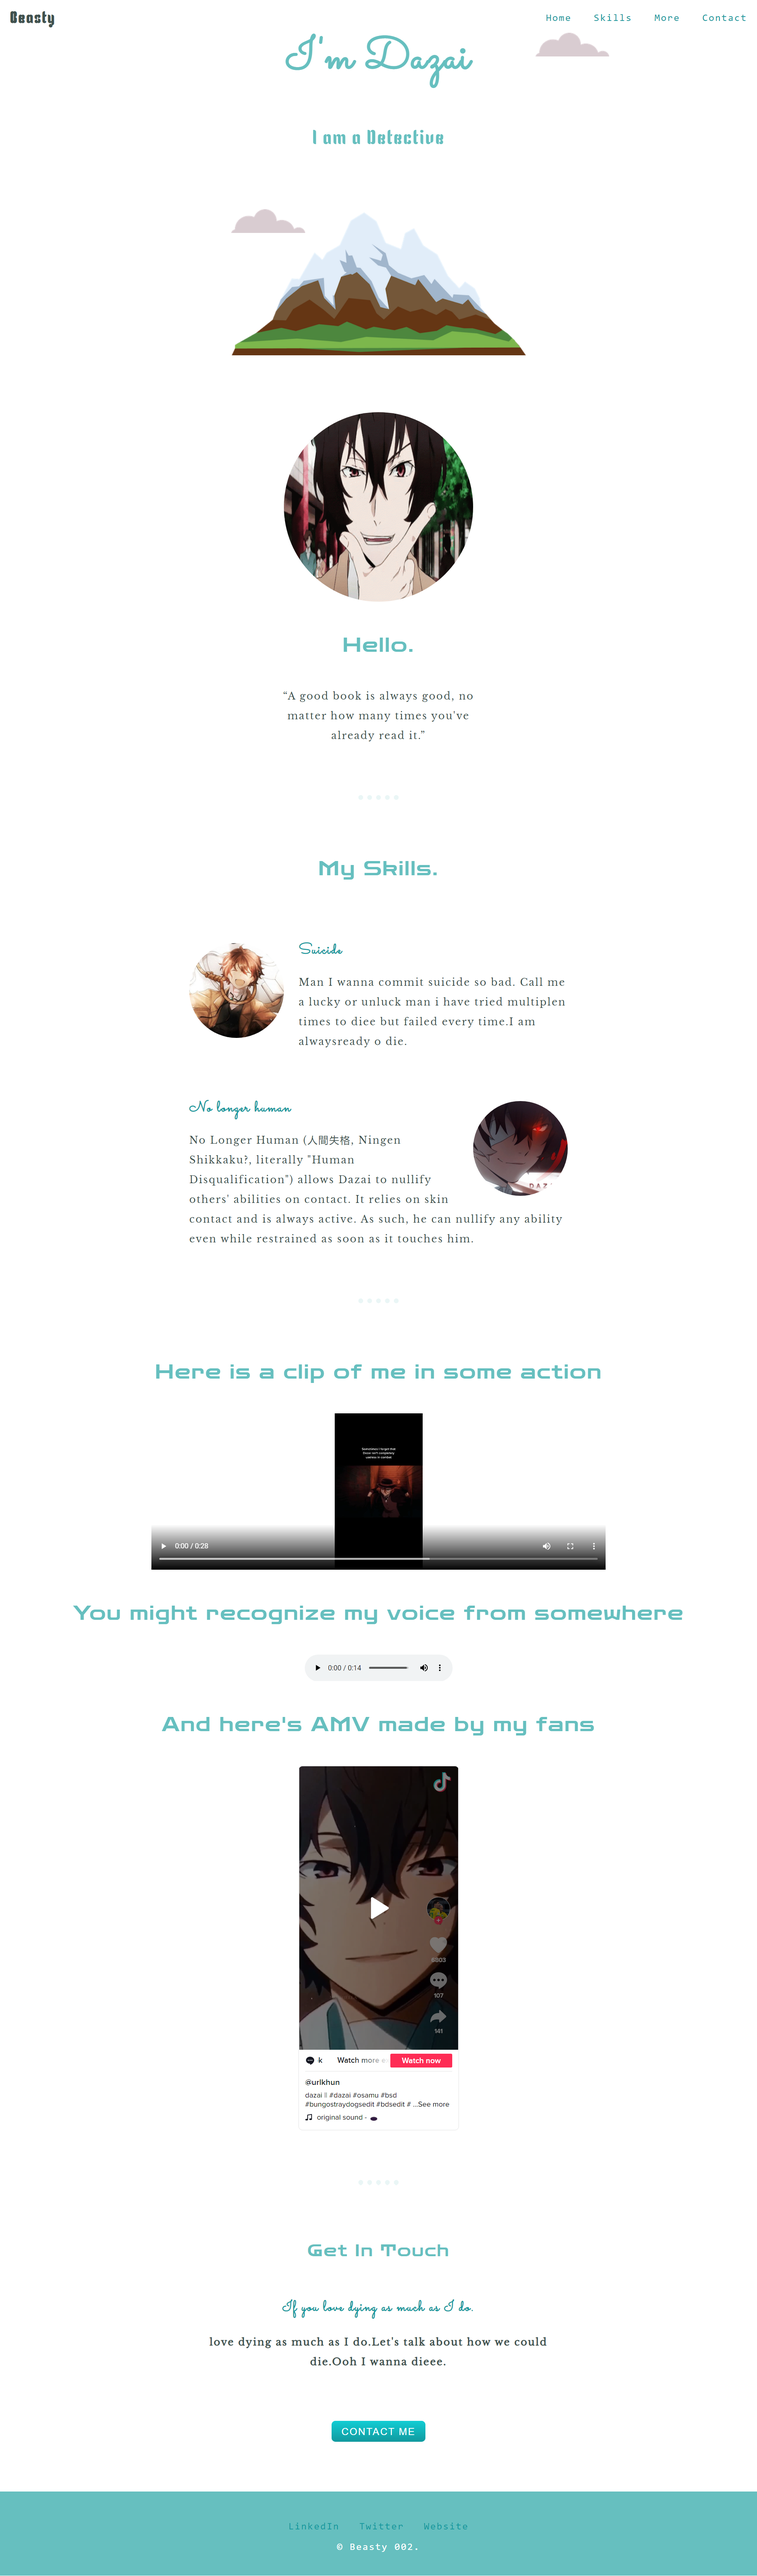
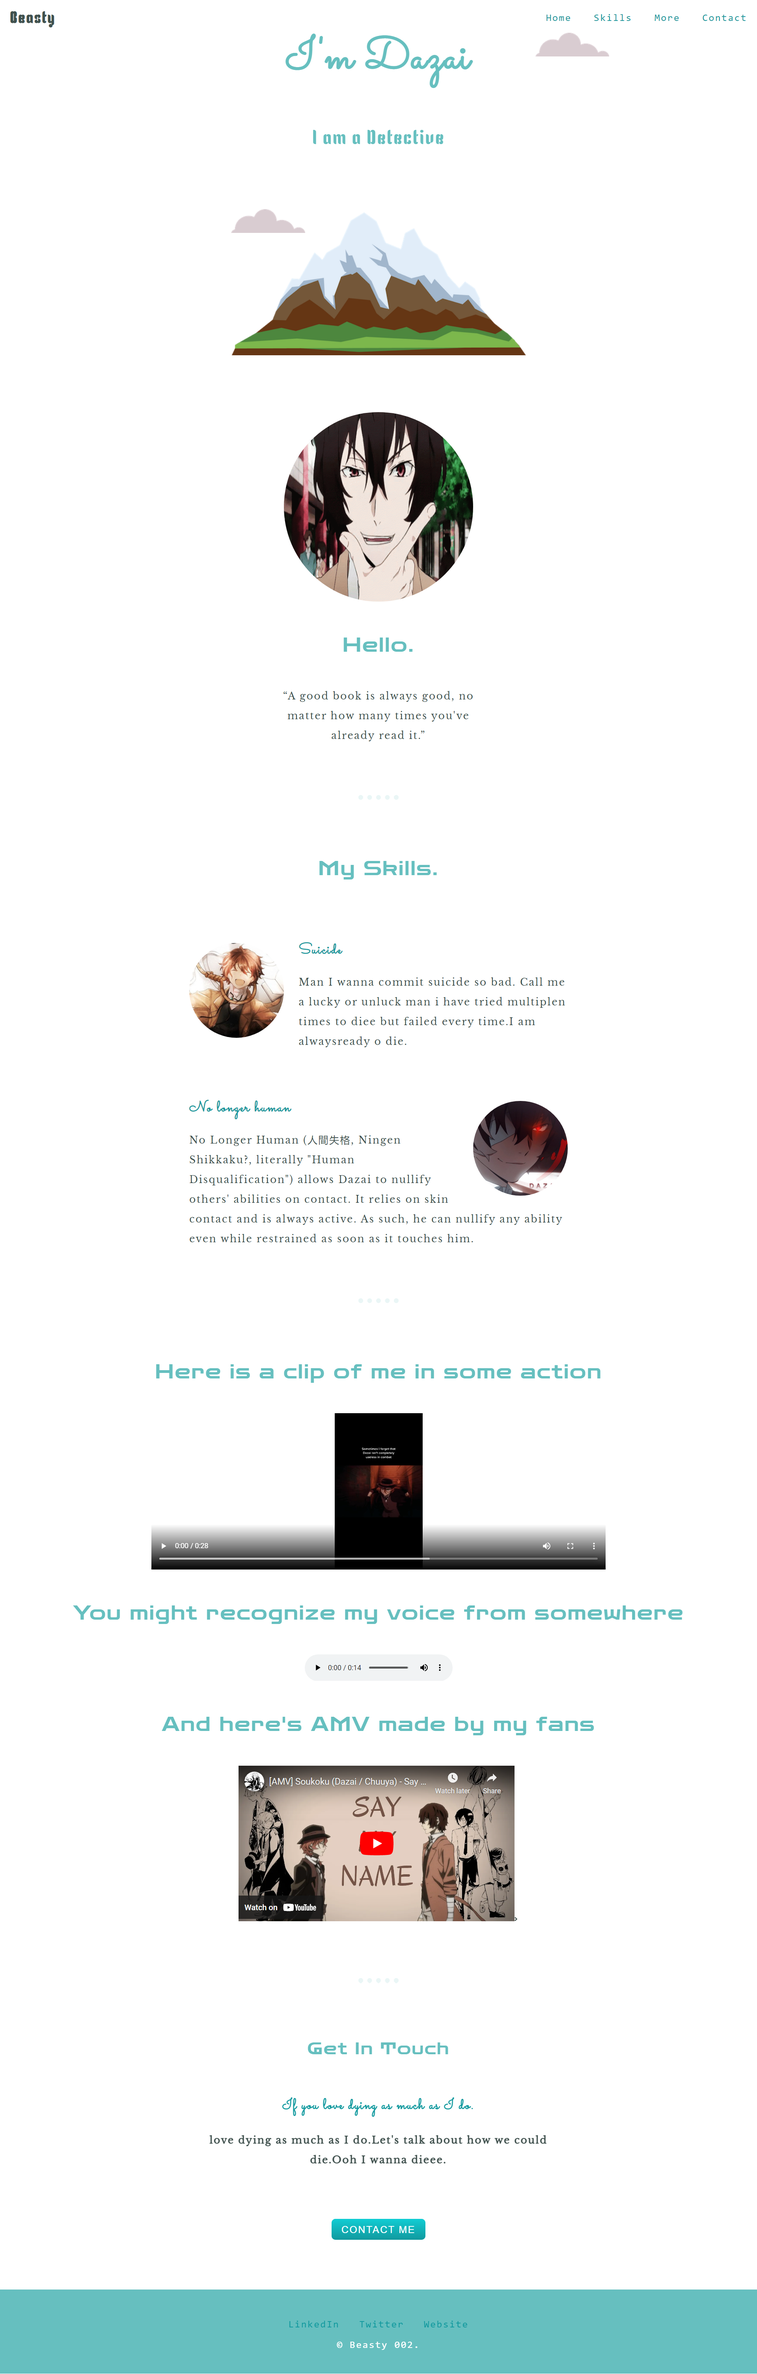
Photo changes

diff --git a/Lab/LAB1/lab1.html b/Lab/LAB1/lab1.html
@@ -72,13 +72,10 @@
             <h2>You might recognize my voice from somewhere</h2>
             <audio src="sound.mp3" controls autoplay></audio>
             <h2>And here's AMV made by my fans</h2>
-            <blockquote class="tiktok-embed" cite="https://www.tiktok.com/@urlkhun/video/6920622551584541954" data-video-id="6920622551584541954" style="max-width: 605px;min-width: 325px;">
-                <section> <a target="_blank" title="@urlkhun" href="https://www.tiktok.com/@urlkhun?refer=embed">@urlkhun</a> dazai || <a title="dazai" target="_blank" href="https://www.tiktok.com/tag/dazai?refer=embed">#dazai</a> <a title="osamu" target="_blank"
-                        href="https://www.tiktok.com/tag/osamu?refer=embed">#osamu</a> <a title="bsd" target="_blank" href="https://www.tiktok.com/tag/bsd?refer=embed">#bsd</a> <a title="bungostraydogsedit" target="_blank" href="https://www.tiktok.com/tag/bungostraydogsedit?refer=embed">#bungostraydogsedit</a>                    <a title="bdsedit" target="_blank" href="https://www.tiktok.com/tag/bdsedit?refer=embed">#bdsedit</a> <a title="amv" target="_blank" href="https://www.tiktok.com/tag/amv?refer=embed">#amv</a> <a title="edits" target="_blank" href="https://www.tiktok.com/tag/edits?refer=embed">#edits</a>                    <a title="animeedit" target="_blank" href="https://www.tiktok.com/tag/animeedit?refer=embed">#animeedit</a> <a title="anime" target="_blank" href="https://www.tiktok.com/tag/anime?refer=embed">#anime</a> <a title="animation" target="_blank"
-                        href="https://www.tiktok.com/tag/animation?refer=embed">#animation</a> <a title="fy" target="_blank" href="https://www.tiktok.com/tag/fy?refer=embed">#fy</a> <a title="foryou" target="_blank" href="https://www.tiktok.com/tag/foryou?refer=embed">#foryou</a>                    <a title="fyp" target="_blank" href="https://www.tiktok.com/tag/fyp?refer=embed">#fyp</a> <a title="foryoupage" target="_blank" href="https://www.tiktok.com/tag/foryoupage?refer=embed">#foryoupage</a> <a target="_blank" title="♬ original sound - 🕳"
-                        href="https://www.tiktok.com/music/original-sound-6897761583465155330?refer=embed">♬ original sound - 🕳</a> </section>
-            </blockquote>
-            <script async src="https://www.tiktok.com/embed.js"></script>
+            <iframe width="560" height="315" src="https://www.youtube.com/embed/PbWkbpE4IW4" title="YouTube video player" frameborder="0" allow="accelerometer; autoplay; clipboard-write; encrypted-media; gyroscope; picture-in-picture" allowfullscreen></iframe>>
+            </section>
+        </blockquote>
+        <script async src="https://www.tiktok.com/embed.js"></script>
         </section>
         <hr class="hr">
 
